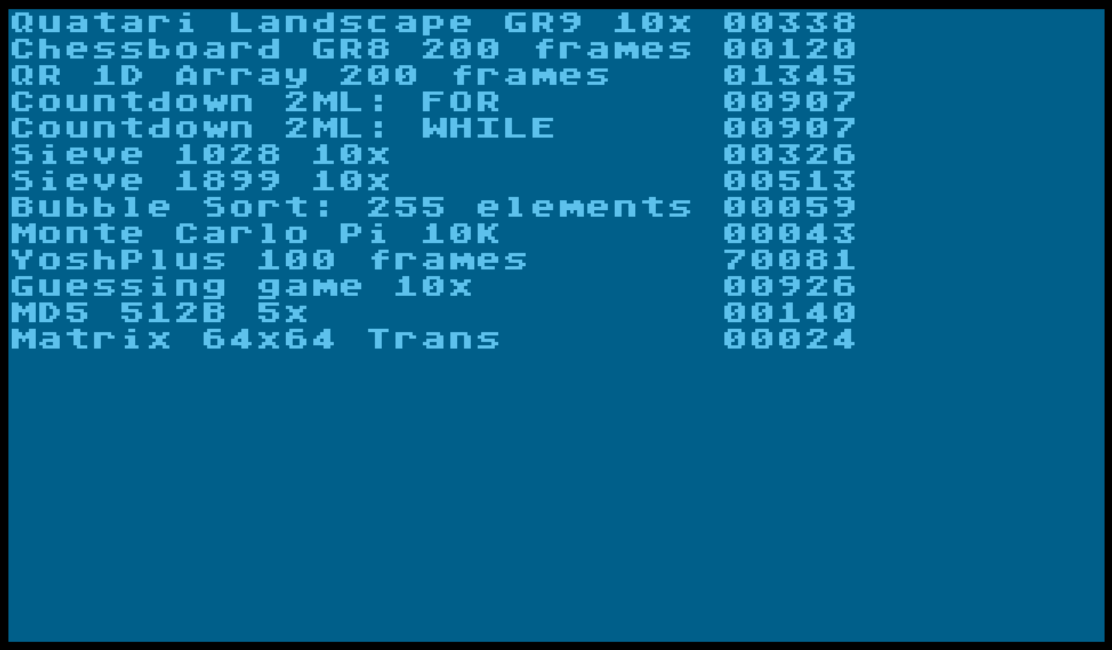
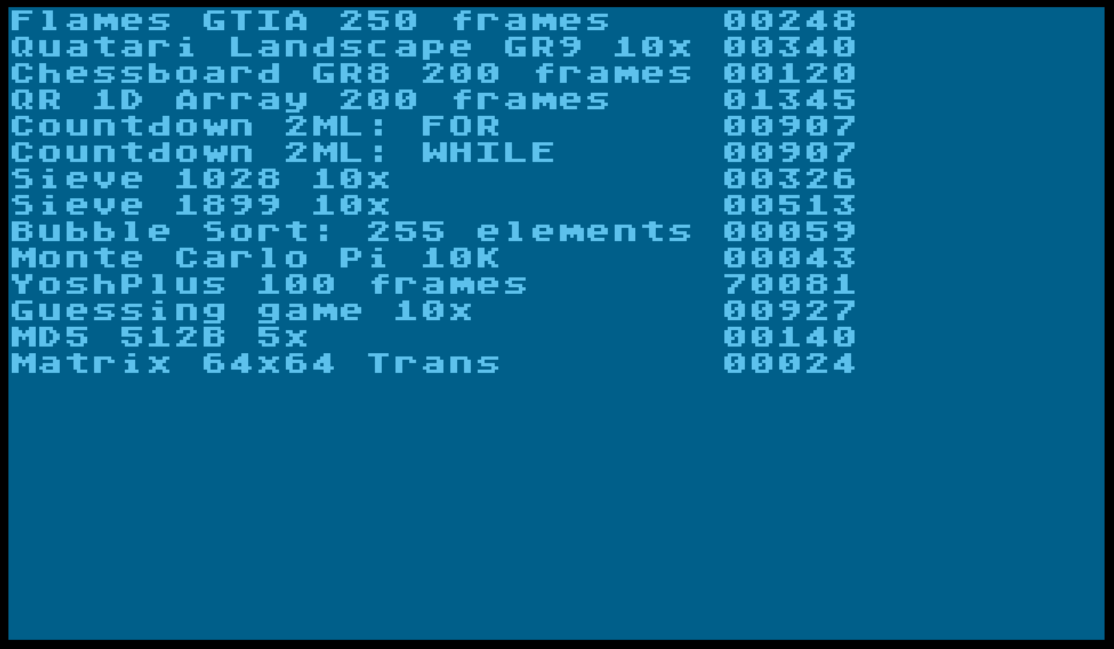
Add flames benchmark - lesson = do not move the pointer

Changed region(s): [[0.0, 0.0, 1.0, 0.9861], [0.0306, 0.9861, 0.9784, 1.0]]

diff --git a/src/fire.c b/src/fire.c
@@ -8,11 +8,12 @@
 
 void runFire() {
 	memset(lms, 0, 0x1ff0);
-	prepareCounter("Fire demo");
+	prepareCounter("Flames GTIA 250 frames");
 	counterOn(1);
 	benchmarkFire();
 	counterOn(0);
-	waitFrames(10);
+	counterOverwrite();
+	waitFrames(40);
 	counterPrint();
 }
 
@@ -20,63 +21,49 @@ void benchmarkFire() {
 	clearAltScore();
 	*SDMCTL = 0x21;
 
-	enableDLI(&priorOffFire);
+	enableDLI2(&priorOffFire);
 	modeFire();
 	*PRIOR = 0x40;
 	GTIA->COLBK = 0x20;
-	
-	 for (uint8_t i: 0x00..0xff) {
-		*(fireScreen + 0x000 + i) = 0;
-		*(fireScreen + 0x100 + i) = 0;
-		*(fireScreen + 0x200 + i) = 0;
-		*(fireScreen + 0x300 + i) = 0;
-	}
 
 	uint8_t t = 0;
-	uint8_t * cp = fireCharset;
-	for (uint8_t i: 0..0x10) {
+	uint8_t *p = fireCharset;
+	
+	for(uint8_t i: 0..0xf) {
 		for (uint8_t j: 0..7) {
-			*(cp++) = t;
+			*(p++) = t;
 		}
 		t += 0x11;
 	}
-
-	cp = fireScreen;
-	uint8_t k = 0x10;
+	
+	clearAltScore();
+	
 	*(RTCLOK + 2) = 0;
-	while (*(RTCLOK + 2) < 200) {
-		t = *(cp - 1 + k);
-		t += *(cp + k);
-		t += *(cp + 1 + k);
-		t += *(cp + 32 + k);
-		t >>= 2;
-		*(cp - 31 + k) = t;
-		
-		t = *(cp - 1 + 0x100 + k);
-		t += *(cp + 0x100 + k);
-		t += *(cp + 1 + 0x100 + k);
-		t += *(cp + 32 + 0x100 + k);
-		t >>= 2;
-		*(cp - 31 + 0x100 + k) = t;
+	while (*(RTCLOK + 2) < 250) {
+		uint8_t *p0 = fireScreen - 31;
+		uint8_t *p1 = fireScreen - 31 + 0x100;
+		uint8_t *p2 = fireScreen - 31 + 0x200;
 
-		t = *(cp - 1 + 0x200 + k);
-		t += *(cp + 0x200 + k);
-		t += *(cp + 1 + 0x200 + k);
-		t += *(cp + 32 + 0x200 + k);
-		t >>= 2;
-		*(cp - 31 + 0x200 + k) = t;
-		
-		// seems pointless...
-		waitFrames(3);
-
-		GTIA->COLBK = 10;
-		for (int8_t k2 = 0x1f; k2 >= 0; k2--) {
-			*(cp + 0x2e0 + k2) = (*RANDOM) & 0xf;
+		for (uint8_t i: 0..255) {
+			*(p0 + i) = (*(p0+30 + i) + *(p0+31 + i) + *(p0+32 + i) + *(p0+63 + i)) >> 2;
+			*(p1 + i) = (*(p1+30 + i) + *(p1+31 + i) + *(p1+32 + i) + *(p1+63 + i)) >> 2;
+			*(p2 + i) = (*(p2+30 + i) + *(p2+31 + i) + *(p2+32 + i) + *(p2+63 + i)) >> 2;
 		}
-		k = 0;
-		// GTIA->COLBK = *RANDOM;
+		
+		p0 = fireScreen + 0x2e0;
+		for (uint8_t i: 0x1f..0) {
+			*(p0 + i) = (*RANDOM) & 0xf;
+		}
+		
+		(*scoreA4)++;
+		if (*scoreA4 == 10) { *scoreA4 = 0; (*scoreA3)++; }
+		if (*scoreA3 == 10) { *scoreA3 = 0; (*scoreA2)++; }
+		if (*scoreA2 == 10) { *scoreA2 = 0; (*scoreA1)++; }
+
 	}
+
 	disableDLI();
 	*PRIOR = 0;
+	ANTIC->DMACTL = 0x22;
 	GTIA->COLBK = 0;
 }

diff --git a/src/gr.c b/src/gr.c
@@ -2,7 +2,7 @@
 #include "gr.h"
 #include "atari-system.h"
 
-export char dl8[] = kickasm(
+export char align(0x100) dl8[] = kickasm(
 		uses lms,
 		uses dl8,
 		uses counterLms
@@ -51,13 +51,13 @@ export char dlScore[] = kickasm(
 
 export char dlFire[] = kickasm(
 		uses dlFire,
-		uses fireScreen,
+		uses lms,
 		uses counterLms
 	) {{
 	.byte $f0, $70, $70
 	.byte $42, counterLms, $00
 	.byte $f0
-	.byte $4F, <fireScreen, >fireScreen
+	.byte $42, (<lms) - $10, (>lms) + 4
 	.fill 20, $02
 	.byte $41, <dlFire, >dlFire
 	}};
@@ -164,6 +164,7 @@ interrupt(hardware_clobber) void priorOn() {
 
 interrupt(hardware_clobber) void priorOffFire() {
 	*PRIOR = 0;
+	ANTIC->DMACTL = 0x22;
 
 	// for the scoreboard
 	*CHBASE = >(charset + 0x400);
@@ -178,10 +179,10 @@ interrupt(hardware_clobber) void priorOffFire() {
 
 interrupt(hardware_clobber) void priorOnFire() {
 	*PRIOR = 0x40;
+	ANTIC->DMACTL = 0x21;
 
 	// for the fire
 	*CHBASE = >fireCharset;
-
 
 	asm(clobbers "A") {
 		lda #<priorOffFire

diff --git a/src/counter.c b/src/counter.c
@@ -109,7 +109,7 @@ void showAltValue(word n) {
 }
 
 void counterOverwrite() {
-	// copy the last 5 chars of the counter display (the temporary counter for some benchmars)
+	// copy the last 5 chars of the counter display (the temporary counter for some benchmarks)
 	// and put it in the first 5 so it gets copied correctly at end of test into the score screen.
 	memcpy(counterLms, scoreA0, 5);
 }

diff --git a/src/gr.h b/src/gr.h
@@ -3,8 +3,8 @@
 char * const charset     = 0x8000;
 char * const lms         = 0xa010;
 char * const scoreLms    = 0xe000;
-char * const fireCharset = 0x6000;
-char * const fireScreen  = 0x6400;
+char * const fireCharset = 0xa000;
+char * const fireScreen  = 0xa410;
 
 void mode8();
 void mode4();

diff --git a/src/qr1d.c b/src/qr1d.c
@@ -56,8 +56,9 @@ char align(0x100) qr[] = kickasm {{
 void benchmarkQR1d() {
 	mode4();
 	clearAltScore();
-	*(RTCLOK + 2) = 0;
+
 	char y = 0;
+	*(RTCLOK + 2) = 0;
 	while (*(RTCLOK + 2) < 200) {
 		char *p = lms;
 		for (char x: 0..174) {

diff --git a/src/suite.c b/src/suite.c
@@ -28,6 +28,7 @@
 void main() {
 	initSuite();
 
+	runFire();
 	runLandscape();
 	runChessboard();
 	runQR1d();
@@ -41,7 +42,6 @@ void main() {
 	runGuessing();
 	runMd5();
 	runMatrix();
-	//runFire();
 
 	// runLipsum();
 
